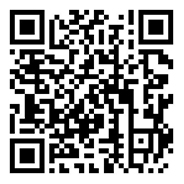
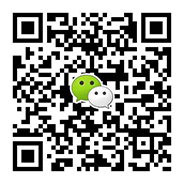
add logo2.3.4

diff --git a/work.html b/work.html
@@ -75,7 +75,12 @@
 						<li class="scb web"><div id="img"><img src="images/ssy1.jpg"/></div>
 							<h4>天猫女装店双十一狂欢网页</h4>
 							<p>2015.10</p>
-							<a class="beijin" href="detail1.html" target="_blank"></a>
+							<a class="beijin" href="web1.html" target="_blank"></a>
+						</li>
+						<li class="scb move"><div id="img"><img src="images/ttxc.jpg"/></div>
+							<h4>天天学唱app</h4>
+							<p>2016年1月</p>
+							<a class="beijin" href="move1.html" target="_blank"></a>
 						</li>
 						<li class="scb seying"><div id="img"><img src="images/hehua.jpg"/></div>
 							<h4>烟台大学三元湖荷花</h4>
@@ -84,8 +89,23 @@
 						</li>
 						<li class="scb logo1"><div id="img"><img src="images/yuanhui3.jpg"/></div>
 							<h4>烟台大学生命科学学院院徽设计</h4>
-							<p>2013.10</p>
+							<p>2013年10月</p>
 							<a class="beijin" href="logo1.html" target="_blank"></a>
+						</li>
+						<li class="scb logo1"><div id="img"><img src="images/icon1.jpg"/></div>
+							<h4>雪的日记主题icon</h4>
+							<p>2015年12月</p>
+							<a class="beijin" href="logo2.html" target="_blank"></a>
+						</li>
+						<li class="scb logo1"><div id="img"><img src="images/icon2.jpg"/></div>
+							<h4>icon模拟练习</h4>
+							<p>2015年12月</p>
+							<a class="beijin" href="logo3.html" target="_blank"></a>
+						</li>
+						<li class="scb logo1"><div id="img"><img src="images/icon3.jpg"/></div>
+							<h4>icon模拟练习</h4>
+							<p>2015年12月</p>
+							<a class="beijin" href="logo4.html" target="_blank"></a>
 						</li>
 						<li class="scb mode"><div id="img"><img src="images/paint2.jpg"/></div>
 							<h4>铅笔绘画--小女孩</h4>
@@ -102,22 +122,12 @@
 							<p>2014年5月</p>
 							<a class="beijin" href="paint1.html" target="_blank"></a>
 						</li>
+						<li class="scb mode"><div id="img"><img src="images/xj.jpg"/></div>
+							<h4>手绘板绘画--美女</h4>
+							<p>2014年5月18日</p>
+							<a class="beijin" href="paint4.html" target="_blank"></a>						
+						</li>
 						<li class="scb pmian"><div id="img"><img src="images/pic_12.png"/></div>
-							<h4>手机APP应用 手机APP应用</h4>
-							<p>2015.11.28</p>
-							<a class="fancybox" href="images/img_05.jpg" data-fancybox-group="gallery" title="Lorem ipsum dolor sit amet"><p href= "#" class="beijin"></p></a>
-						</li>
-						<li class="scb move"><div id="img"><img src="images/pic_03.png"/></div>
-							<h4>手机APP应用 手机APP应用</h4>
-							<p>2015.11.28</p>
-							<a class="fancybox" href="images/img_05.jpg" data-fancybox-group="gallery" title="Lorem ipsum dolor sit amet"><p href= "#" class="beijin"></p></a>
-						</li>
-						<li class="scb logo1"><div id="img"><img src="images/pic_12.png"/></div>
-							<h4>手机APP应用 手机APP应用</h4>
-							<p>2015.11.28</p>
-							<a class="fancybox" href="images/img_05.jpg" data-fancybox-group="gallery" title="Lorem ipsum dolor sit amet"><p href= "#" class="beijin"></p></a>
-						</li>
-						<li class="scb logo1"><div id="img"><img src="images/pic_07.png"/></div>
 							<h4>手机APP应用 手机APP应用</h4>
 							<p>2015.11.28</p>
 							<a class="fancybox" href="images/img_05.jpg" data-fancybox-group="gallery" title="Lorem ipsum dolor sit amet"><p href= "#" class="beijin"></p></a>

diff --git a/index.html b/index.html
@@ -166,6 +166,11 @@
 							<p>2015.10</p>
 							<a class="beijin" href="web1.html" target="_blank"></a>
 						</li>
+						<li class="scb move"><div id="img"><img src="images/ttxc.jpg"/></div>
+							<h4>天天学唱app</h4>
+							<p>2016年1月</p>
+							<a class="beijin" href="move1.html" target="_blank"></a>
+						</li>
 						<li class="scb seying">
 							<div id="img"><img src="images/hehua.jpg"/></div>
 							<h4>烟台大学三元湖荷花</h4>
@@ -179,15 +184,25 @@
 						</li>
 						<li class="scb logo1"><div id="img"><img src="images/yuanhui3.jpg"/></div>
 							<h4>烟台大学生命科学学院院徽设计</h4>
-							<p>2013.10</p>
+							<p>2013年10月</p>
 							<a class="beijin" href="logo1.html" target="_blank"></a>
 						</li>
-						<li class="scb pmian"><div id="img"><img src="images/pic_07.png"/></div>
-							<h4>手机APP应用 手机APP应用</h4>
-							<p>2015.11.28</p>
-							<a class="fancybox" href="images/img_05.jpg" data-fancybox-group="gallery" title="Lorem ipsum dolor sit amet"><p href= "#" class="beijin"></p></a>
+						<li class="scb logo1"><div id="img"><img src="images/icon1.jpg"/></div>
+							<h4>雪的日记主题icon</h4>
+							<p>2015年12月</p>
+							<a class="beijin" href="logo2.html" target="_blank"></a>
 						</li>
-						<li class="scb move"><div id="img"><img src="images/pic_07.png"/></div>
+						<li class="scb logo1"><div id="img"><img src="images/icon2.jpg"/></div>
+							<h4>icon模拟练习</h4>
+							<p>2015年12月</p>
+							<a class="beijin" href="logo3.html" target="_blank"></a>
+						</li>
+						<li class="scb logo1"><div id="img"><img src="images/icon3.jpg"/></div>
+							<h4>icon模拟练习</h4>
+							<p>2015年12月</p>
+							<a class="beijin" href="logo4.html" target="_blank"></a>
+						</li>
+						<li class="scb pmian"><div id="img"><img src="images/pic_07.png"/></div>
 							<h4>手机APP应用 手机APP应用</h4>
 							<p>2015.11.28</p>
 							<a class="fancybox" href="images/img_05.jpg" data-fancybox-group="gallery" title="Lorem ipsum dolor sit amet"><p href= "#" class="beijin"></p></a>
@@ -201,6 +216,11 @@
 							<h4>手绘板绘画--美女</h4>
 							<p>2014年5月18日</p>
 							<a class="beijin" href="paint3.html" target="_blank"></a>						
+						</li>
+						<li class="scb mode"><div id="img"><img src="images/xj.jpg"/></div>
+							<h4>手绘板绘画--美女</h4>
+							<p>2014年5月18日</p>
+							<a class="beijin" href="paint4.html" target="_blank"></a>						
 						</li>
 					</ul>
                 </div>
@@ -260,9 +280,9 @@
 			<h5>感谢你的到访，若我的能力符合您的需求，期待您的联系...</h5>
 			<div class="contact_ewm"><img src="images/weixin.jpg"/></div>
 			<div class="lianxi">
-				<p><i class="fa fa-phone"></i>: 13111111113</p>
-				<p><i class="fa fa-envelope-o"></i>: 1111115356@qq.com</p>
-				<p><i class="fa fa-qq"></i>: 1111115356</p>
+				<p><i class="fa fa-phone"></i>: 13242704183</p>
+				<p><i class="fa fa-envelope-o"></i>: 1334785356@qq.com</p>
+				<p><i class="fa fa-qq"></i>: 1334785356</p>
 			</div>
 			</div>
         </div>

diff --git a/logo4.html b/logo4.html
@@ -46,18 +46,18 @@
 <body>
 	<section>
     	<article>
-				<h1>春秋女装天猫双十一狂欢页面</h1>
-			<div><img src="images/ssy.jpg"/></div>
+				<h1>icon模拟练习</h1>
+			<div><img src="images/icon3_1.jpg"/><img src="images/icon3_2.jpg"/><img src="images/icon3_3.jpg"/><img src="images/icon3_4.jpg"/><img src="images/icon3_5.jpg"/></div>
 		</article>
         <aside>
 		<div id="right">
 			<h2>详情介绍</h2>
-			<p>简介简介简介简介简介简介简介简介简介简介简介</p>
+			<p>此次icon模仿为轻拟真图标。</br>分别为：</br>&nbsp;&nbsp;&nbsp;&nbsp;1.短信</br>&nbsp;&nbsp;&nbsp;&nbsp;2.日历</br>&nbsp;&nbsp;&nbsp;&nbsp;3.浏览器</br>&nbsp;&nbsp;&nbsp;&nbsp;4.设置</br>&nbsp;&nbsp;&nbsp;&nbsp;5.电话</p>
 		</div>
 		</aside>
     </section>
-	<a class="left" href="move1.html"><i class="fa fa-angle-left"></i></a>
-	<a class="right" href="logo1.html"><i class="fa fa-angle-right"></i></a>
+	<a class="left" href="logo3.html"><i class="fa fa-angle-left"></i></a>
+	<a class="right" href="sheying1.html"><i class="fa fa-angle-right"></i></a>
 	<a class="top" href="#"><i class="fa fa-angle-up"></i></a>
     <a  class="close" href="javascript:window.close()"><img src="images/close_icon.png"/></a></div>
 </body>

diff --git a/logo2.html b/logo2.html
@@ -46,18 +46,18 @@
 <body>
 	<section>
     	<article>
-				<h1>春秋女装天猫双十一狂欢页面</h1>
-			<div><img src="images/ssy.jpg"/></div>
+				<h1>雪的日记主题icon</h1>
+			<div><img src="images/icon_1.jpg"/></div>
 		</article>
         <aside>
 		<div id="right">
 			<h2>详情介绍</h2>
-			<p>简介简介简介简介简介简介简介简介简介简介简介</p>
+			<p>此款主题icon，是基于雪花和雪地设计的。icon中透漏这雪地的纯洁，被雪地衬托的湛蓝色的天空显得格外的纯洁透彻。爱上了冬天的飘雪，想象这儿时的玩伴一起打雪仗的情景。整套icon用色简单，色彩统一，也保持了一定的辨识度。</p>
 		</div>
 		</aside>
     </section>
-	<a class="left" href="move1.html"><i class="fa fa-angle-left"></i></a>
-	<a class="right" href="logo1.html"><i class="fa fa-angle-right"></i></a>
+	<a class="left" href="logo1.html"><i class="fa fa-angle-left"></i></a>
+	<a class="right" href="logo3.html"><i class="fa fa-angle-right"></i></a>
 	<a class="top" href="#"><i class="fa fa-angle-up"></i></a>
     <a  class="close" href="javascript:window.close()"><img src="images/close_icon.png"/></a></div>
 </body>

diff --git a/move1.html b/move1.html
@@ -46,18 +46,18 @@
 <body>
 	<section>
     	<article>
-				<h1>春秋女装天猫双十一狂欢页面</h1>
-			<div><img src="images/ssy.jpg"/></div>
+				<h1>天天学唱app</h1>
+			<div><img src="images/ttxc1.jpg"/></div>
 		</article>
         <aside>
 		<div id="right">
 			<h2>详情介绍</h2>
-			<p>简介简介简介简介简介简介简介简介简介简介简介</p>
+			<p>“天天学唱”是一款基于学习唱歌与交流音乐的app。app在提供用户系统的学习资料，和丰富的学习课程之外，提供了很好的用户交流与探讨的平台，以及提供线下开展的相关活动。</p>
 		</div>
 		</aside>
     </section>
-	<a class="left" href="move1.html"><i class="fa fa-angle-left"></i></a>
-	<a class="right" href="logo1.html"><i class="fa fa-angle-right"></i></a>
+	<a class="left" href="#"><i class="fa fa-angle-left"></i></a>
+	<a class="right" href="web1.html"><i class="fa fa-angle-right"></i></a>
 	<a class="top" href="#"><i class="fa fa-angle-up"></i></a>
     <a  class="close" href="javascript:window.close()"><img src="images/close_icon.png"/></a></div>
 </body>

diff --git a/paint4.html b/paint4.html
@@ -46,18 +46,18 @@
 <body>
 	<section>
     	<article>
-				<h1>春秋女装天猫双十一狂欢页面</h1>
-			<div><img src="images/ssy.jpg"/></div>
+				<h1>高拟真相机绘制</h1>
+			<div><img src="images/xj.jpg"/></div>
 		</article>
         <aside>
 		<div id="right">
 			<h2>详情介绍</h2>
-			<p>简介简介简介简介简介简介简介简介简介简介简介</p>
+			<p>此次绘画高拟真相机，主要采用形状的变形和图层的叠加，图层样式的改变，前后运用了上百张图层的叠加，是尝试的不一样的画发。用时12小时。</p>
 		</div>
 		</aside>
     </section>
-	<a class="left" href="move1.html"><i class="fa fa-angle-left"></i></a>
-	<a class="right" href="logo1.html"><i class="fa fa-angle-right"></i></a>
+	<a class="left" href="paint1.html"><i class="fa fa-angle-left"></i></a>
+	<a class="right" href="#"><i class="fa fa-angle-right"></i></a>
 	<a class="top" href="#"><i class="fa fa-angle-up"></i></a>
     <a  class="close" href="javascript:window.close()"><img src="images/close_icon.png"/></a></div>
 </body>

diff --git a/logo3.html b/logo3.html
@@ -46,18 +46,18 @@
 <body>
 	<section>
     	<article>
-				<h1>春秋女装天猫双十一狂欢页面</h1>
-			<div><img src="images/ssy.jpg"/></div>
+				<h1>icon模拟练习</h1>
+			<div><img src="images/icon_2.jpg"/></div>
 		</article>
         <aside>
 		<div id="right">
 			<h2>详情介绍</h2>
-			<p>简介简介简介简介简介简介简介简介简介简介简介</p>
+			<p>选择了线形分格icon、剪影分格icon、扁平分格icon进行模拟，吸取他人作品的精华。</p>
 		</div>
 		</aside>
     </section>
-	<a class="left" href="move1.html"><i class="fa fa-angle-left"></i></a>
-	<a class="right" href="logo1.html"><i class="fa fa-angle-right"></i></a>
+	<a class="left" href="logo2.html"><i class="fa fa-angle-left"></i></a>
+	<a class="right" href="logo4.html"><i class="fa fa-angle-right"></i></a>
 	<a class="top" href="#"><i class="fa fa-angle-up"></i></a>
     <a  class="close" href="javascript:window.close()"><img src="images/close_icon.png"/></a></div>
 </body>

diff --git a/logo1.html b/logo1.html
@@ -47,7 +47,7 @@
 	<section>
     	<article>
 				<h1>烟台大学生命科学学院院徽设计</h1>
-			<div><img src="images/yuanhui1.jpg"/></div>
+			<div><img src="images/yuanhui2.jpg"/><img src="images/yuanhui1.jpg"/></div>
 		</article>
         <aside>
 		<div id="right">
@@ -57,7 +57,7 @@
 		</aside>
     </section>
 	<a class="left" href="web1.html"><i class="fa fa-angle-left"></i></a>
-	<a class="right" href="sheying1.html"><i class="fa fa-angle-right"></i></a>
+	<a class="right" href="logo2.html"><i class="fa fa-angle-right"></i></a>
 	<a class="top" href="#"><i class="fa fa-angle-up"></i></a>
     <a  class="close" href="javascript:window.close()"><img src="images/close_icon.png"/></a></div>
 </body>

diff --git a/sheying1.html b/sheying1.html
@@ -57,7 +57,7 @@
 		</div>
 		</aside>
     </section>
-	<a class="left" href="logo1.html"><i class="fa fa-angle-left"></i></a>
+	<a class="left" href="logo4.html"><i class="fa fa-angle-left"></i></a>
 	<a class="right" href="paint2.html"><i class="fa fa-angle-right"></i></a>
 	<a class="top" href="#"><i class="fa fa-angle-up"></i></a>
     <a  class="close" href="javascript:window.close()"><img src="images/close_icon.png"/></a></div>

diff --git a/paint3.html b/paint3.html
@@ -57,7 +57,7 @@
 		</aside>
     </section>
 	<a class="left" href="paint1.html"><i class="fa fa-angle-left"></i></a>
-	<a class="right" href="#"><i class="fa fa-angle-right"></i></a>
+	<a class="right" href="paint4.html"><i class="fa fa-angle-right"></i></a>
 	<a class="top" href="#"><i class="fa fa-angle-up"></i></a>
     <a  class="close" href="javascript:window.close()"><img src="images/close_icon.png"/></a></div>
 </body>
